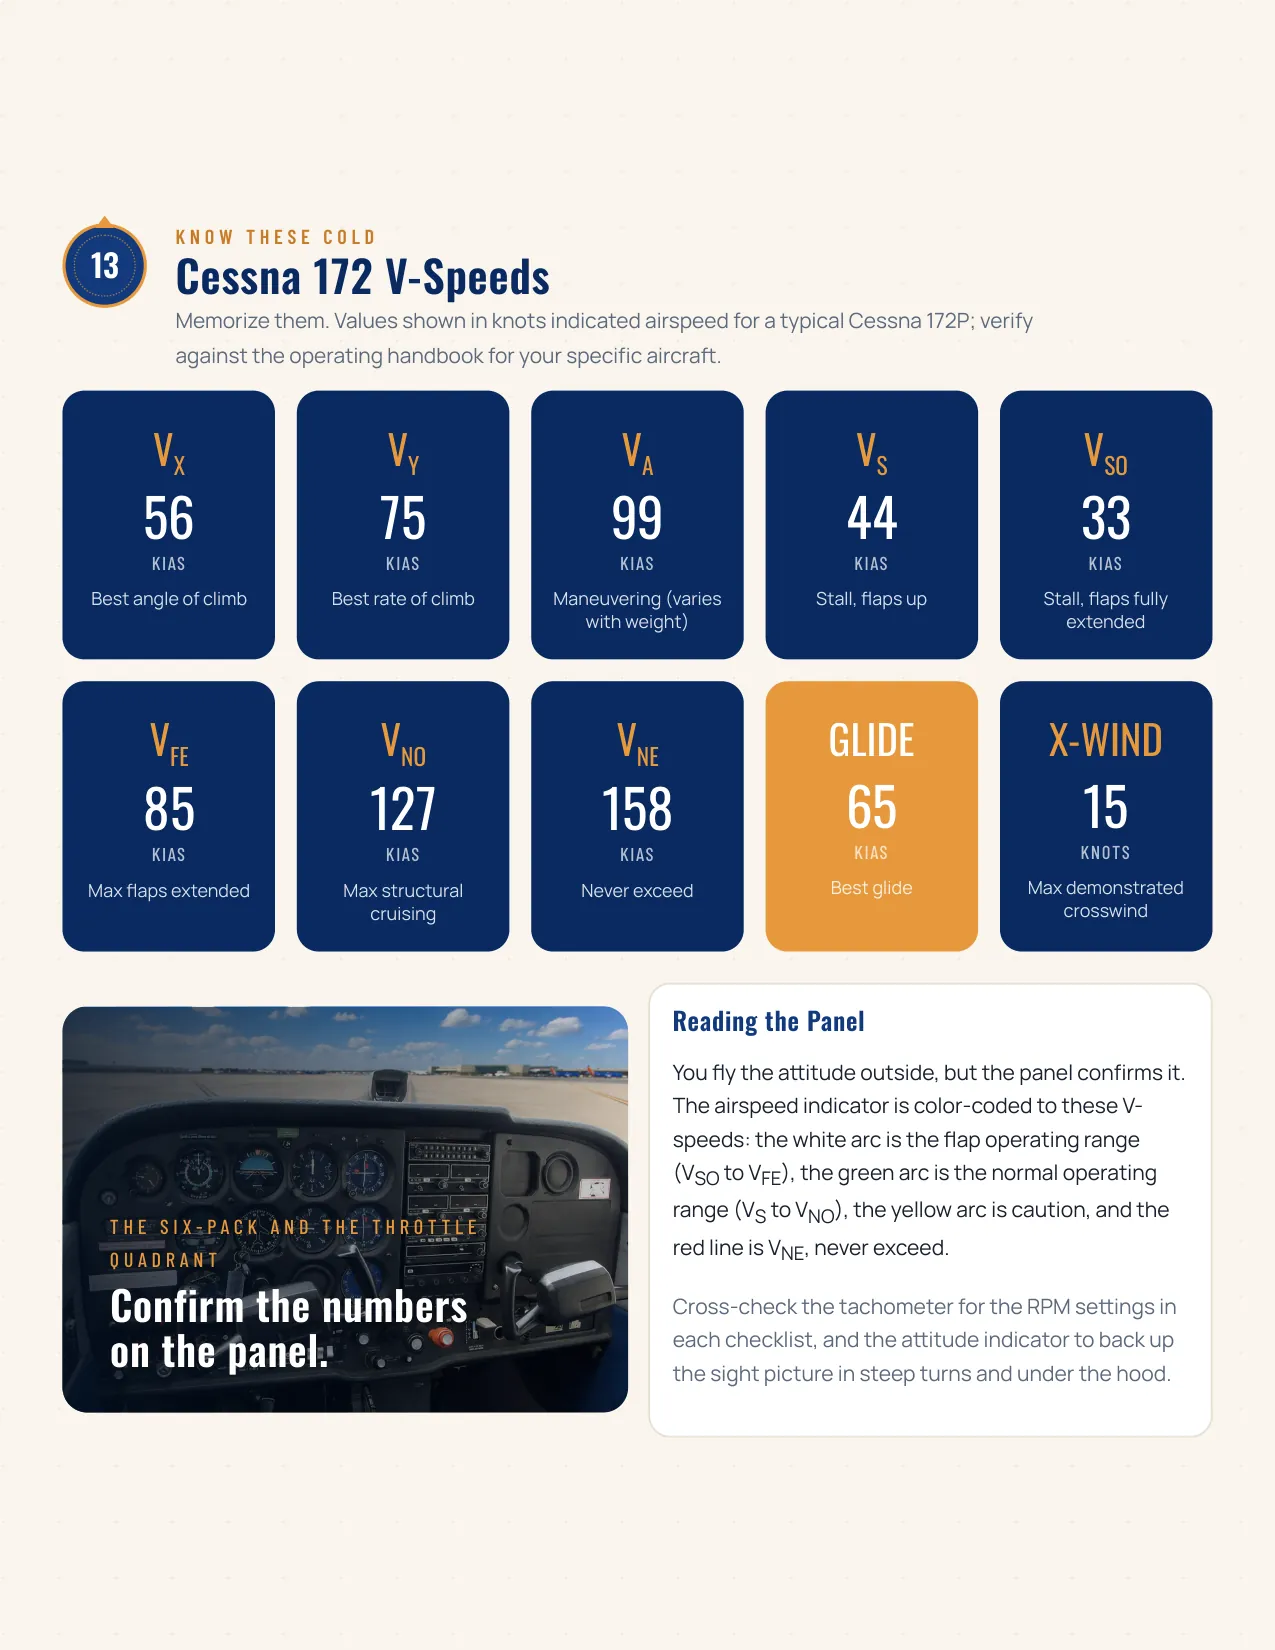
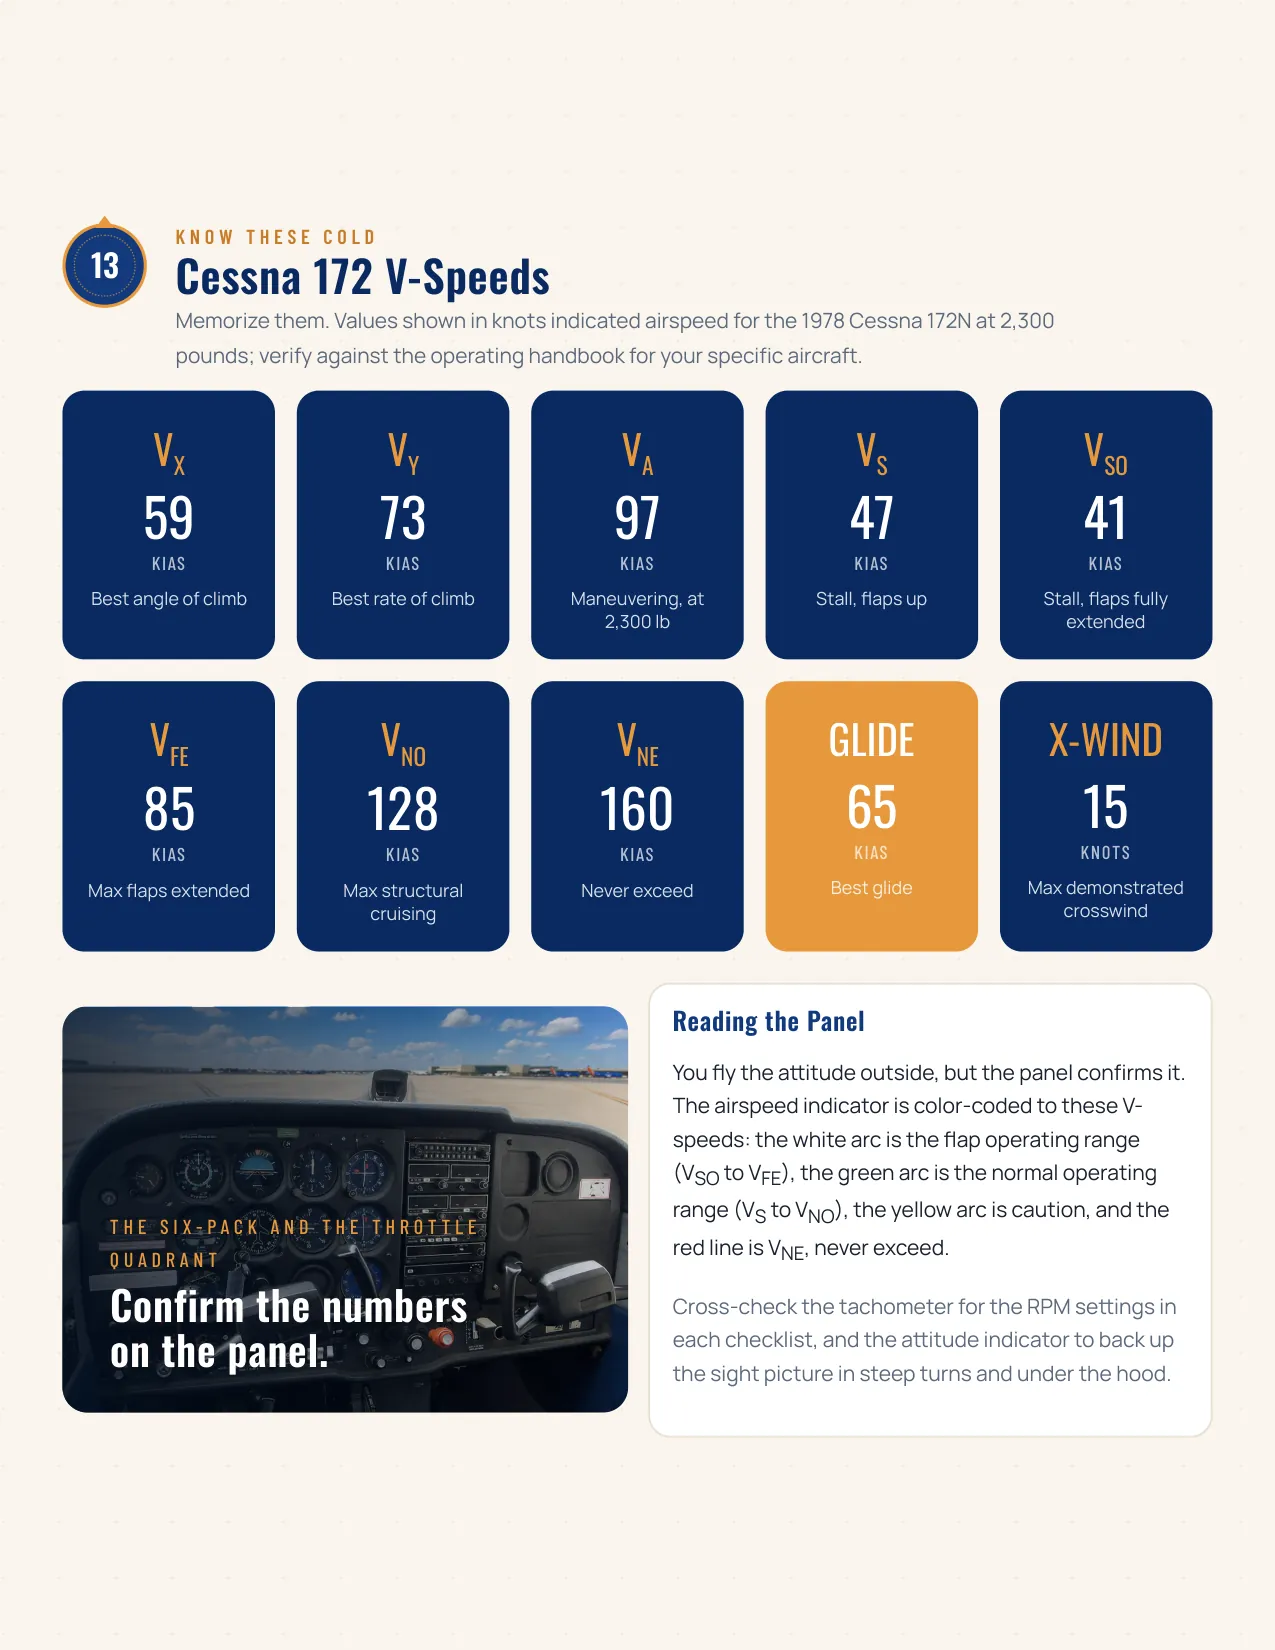
Digital syllabus: 2026-10-01 revision
Rebuilt from the print master revised on 2026-10-01, still 41 pages. Nineteen
pages changed: Cessna numbers now follow the 172N handbook, the Areas of
Operation follow ACS-6C, the checkride maneuvers and VOR/NDB pages are typeset
pages, new ground reference and preflight posters, and the smaller corrections
from the pre-print proofread. Contents entry for page 17 renamed to match.

diff --git a/syllabus/index.html b/syllabus/index.html
@@ -112,7 +112,7 @@ main{padding:10px 8px 28px;max-width:900px;margin:0 auto}
     <h3>Flight Reference</h3>
     <ul>
       <li><button data-p="16"><span class="n">16</span>Checkride Maneuvers</button></li>
-      <li><button data-p="17"><span class="n">17</span>Stalls, Spins and Ground Reference</button></li>
+      <li><button data-p="17"><span class="n">17</span>Spin Recovery and Ground Reference</button></li>
       <li><button data-p="18"><span class="n">18</span>Landing Profiles</button></li>
       <li><button data-p="19"><span class="n">19</span>Takeoff and Landing Variations</button></li>
       <li><button data-p="20"><span class="n">20</span>Normal, Soft and Short Field</button></li>
